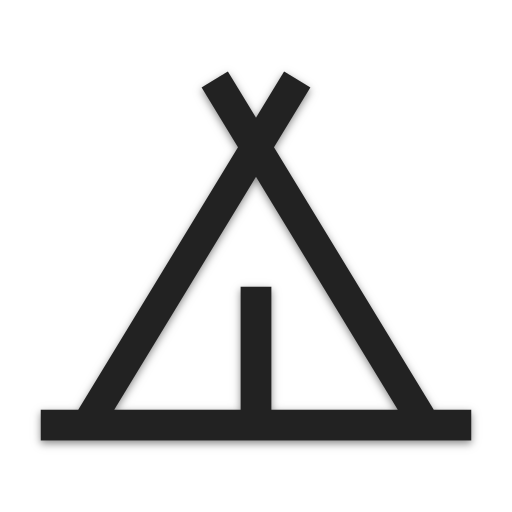
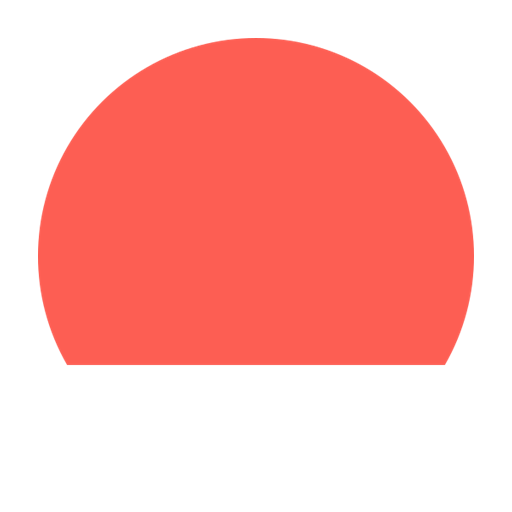
icones

diff --git a/index.html b/index.html
@@ -4,8 +4,8 @@
 <head>
   <meta charset="UTF-8">
   <meta name="viewport" content="width=device-width, initial-scale=1.0">
-  <link rel="icon" href="/favicon.svg" type="image/svg+xml">
-  <link rel="mask-icon" href="/safari-pinned-tab.svg" color="#00aba9">
+  <link rel="icon" href="/favicon.png" type="image/svg+xml">
+  <link rel="mask-icon" href="/ghour.svg" color="#00aba9">
   <meta name="msapplication-TileColor" content="#00aba9">
   <meta name="theme-color" content="#ffffff">
   <title>Golden Hour</title>

diff --git a/src/components/TheQuote.vue b/src/components/TheQuote.vue
@@ -5,22 +5,17 @@
   </blockquote>
 </template>
 
-<script>
-import quotes from '../data/quotes.json'
+<script setup lang='ts'>
+import quotes from '/~/data/quotes.json'
 import { ref } from 'vue'
 
-export default {
-  setup () {
 
-    let quote = ref(null)
+    export let quote = ref(null)
 
     const getQuote = (() => {
       const quotesArr = JSON.parse(JSON.stringify(quotes))
       quote = quotesArr[Math.floor(Math.random() * quotesArr.length)]
     })()
 
-    return { quote }
-  },
-}
 </script>
 

diff --git a/src/pages/index.vue b/src/pages/index.vue
@@ -1,8 +1,10 @@
 <template>
   <div>
-    <p class="text-4xl">
-      <Icon class="iconify inline-block" icon="carbon:camera-action" />
-    </p>
+    <img
+      src="../../../public/ghour.svg"
+      width="50"
+      class="mx-auto"
+    >
     <p>
       Golden Hour
     </p>
@@ -33,7 +35,7 @@
 </template>
 
 <script setup lang='ts'>
-import { ref } from 'vue'
+import { ref } from "vue";
 // import { useRouter } from 'vue-router'
 // import { useI18n } from 'vue-i18n'
 

diff --git a/src/App.vue b/src/App.vue
@@ -4,3 +4,10 @@
     <Footer />
   </div>
 </template>
+
+<script setup lang='ts'>
+const setupSW = (() => {
+  if ("serviceWorker" in navigator)
+    navigator.serviceWorker.register("../service-worker.js");
+})();
+</script>
